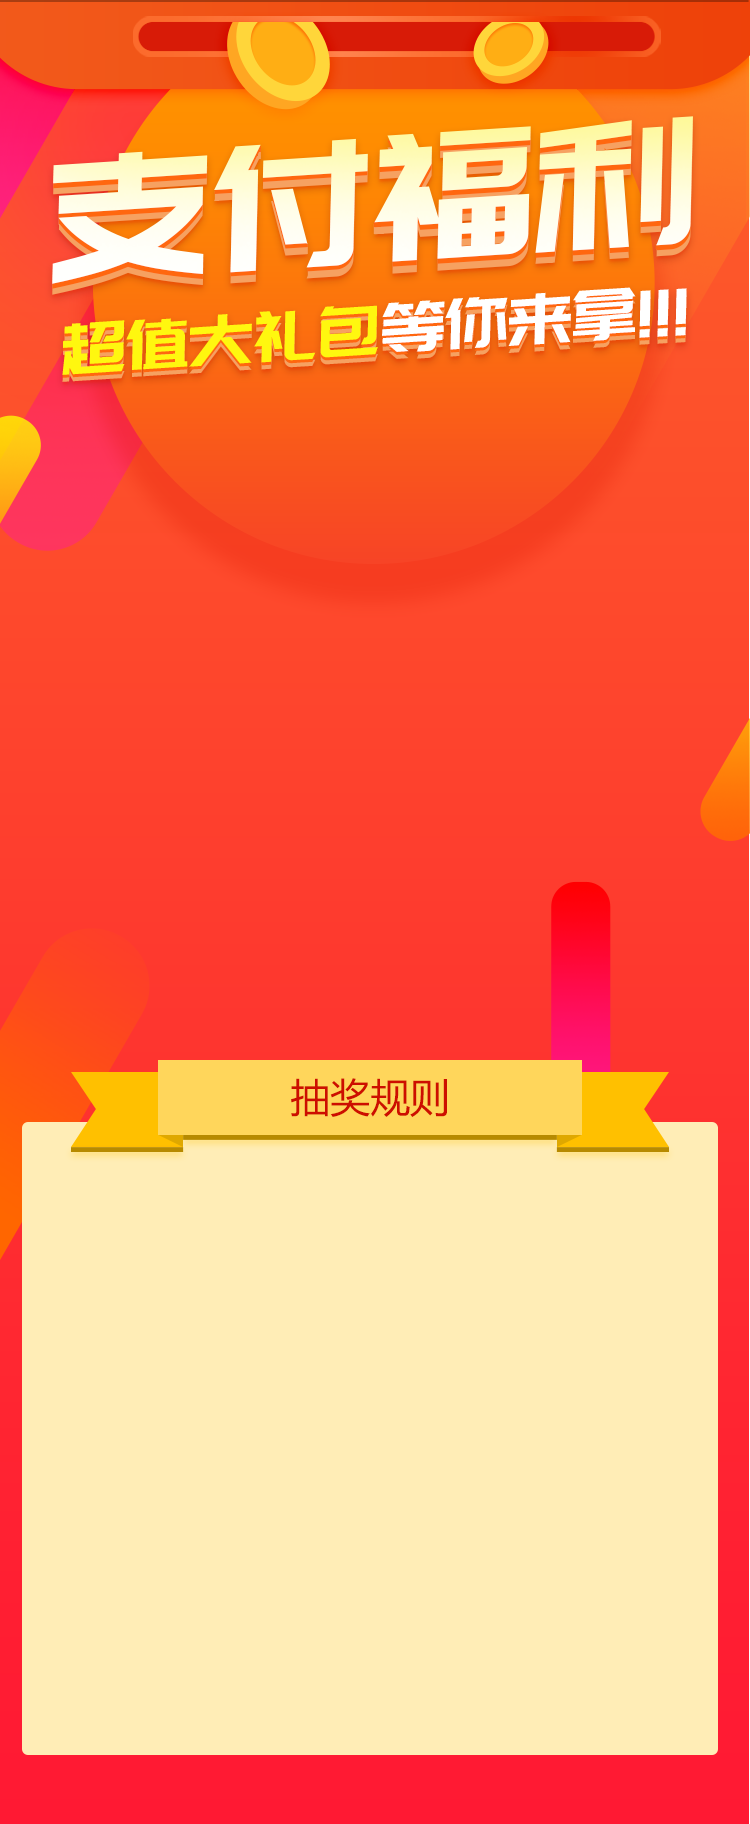
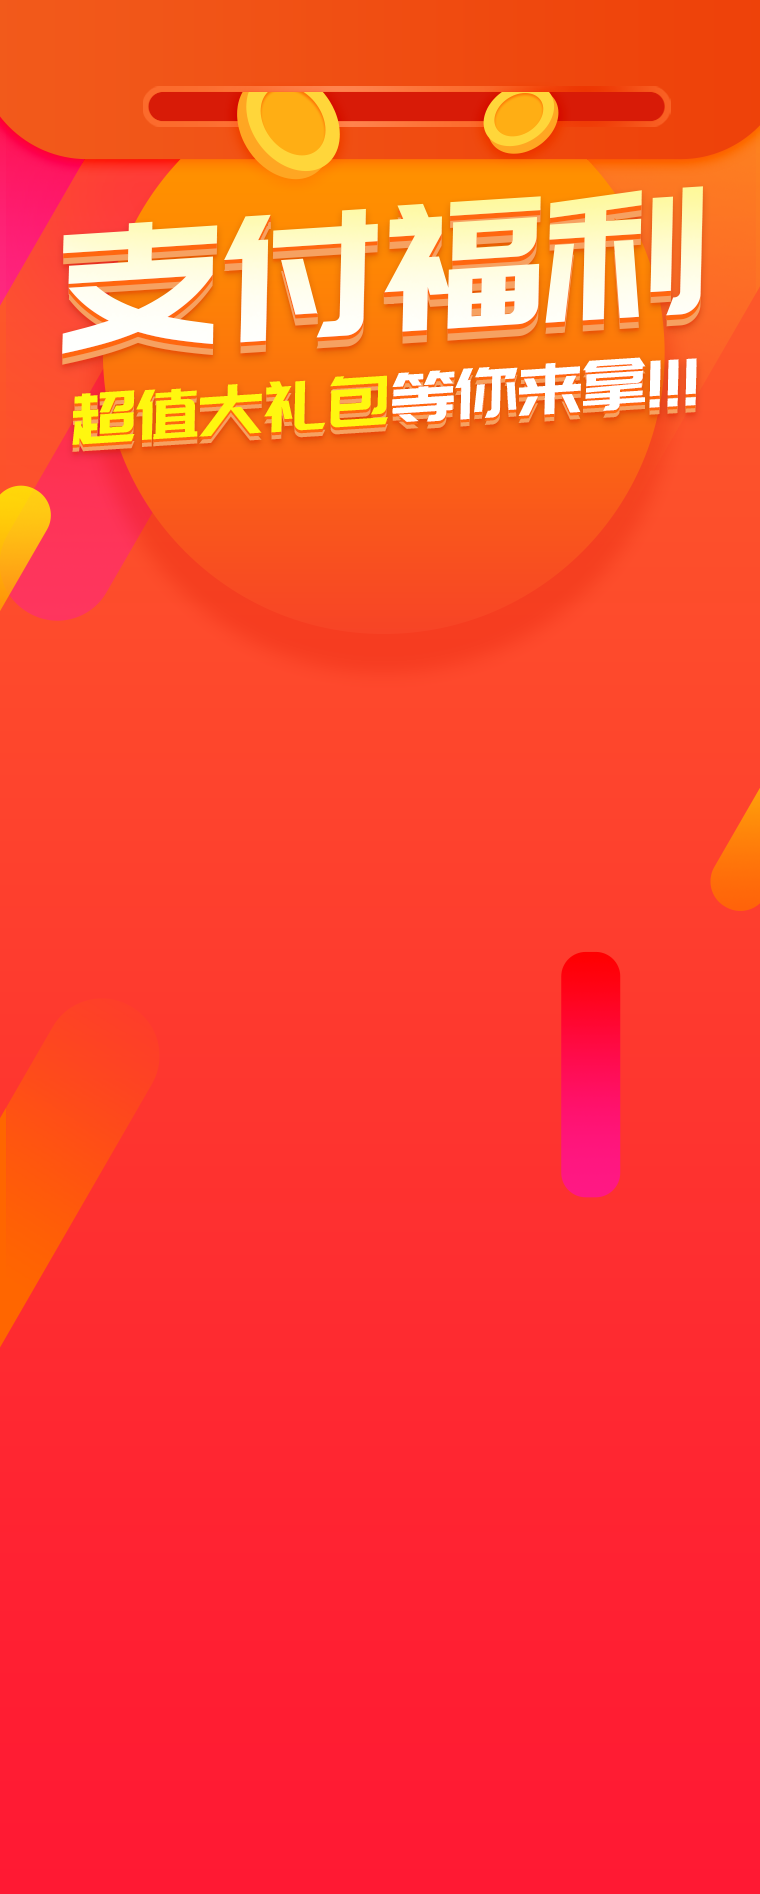
抽奖规则

diff --git a/src/views/activity.vue b/src/views/activity.vue
@@ -46,6 +46,15 @@
                 </div>
                 <div class="item play" @click="play"></div>
             </div>
+
+            <div class="guize">
+                <p>一、每次扫码支付结束后可获得1次抽奖机会。抽奖次数不会累计叠加；</p>
+                <p>二、中奖并领取奖品后，可在[个人中心]-[我的卡券]中查看。中奖如不领取，则视为放弃奖品；</p>
+                <p>三、中奖规则及中奖资格的排除：</p>
+                <p>(一)奖品由系统随机抽取，中奖结果将在活动页面实时公布；</p>
+                <p>(二)凡以不正当手段（包括但不限于机器刷奖、作弊、扰乱系统、实施网络攻击等）参与本次活动的用户，本公司有权终止其参与活动，取消其获奖资格(如奖励已发放，本公司有权收回)；</p>
+                <p>四、点击“抽奖”按钮则视为已阅读抽奖规则。</p>
+            </div>
             
         </main>
 
@@ -533,6 +542,7 @@ main{
     background: url('../assets/activity-bg.png') no-repeat;
     background-size: 100%;
     position: relative;
+    background-position-y: -35px;
 }
 .prizeWheels{
     width: 3.48rem;
@@ -747,6 +757,22 @@ main{
     }
     .thankYou .close{
         bottom: 110px;
+    }
+
+    .guize {
+        width: 3.48rem;
+        height: 3.16rem;
+        position: absolute;
+        left: 50%;
+        top: 5.29rem;
+        transform: translateX(-50%);
+        background: url('../assets/guize.png') no-repeat;
+        background-size: 100%;
+        font-size: .12rem;
+        padding-top: .6rem;
+        padding-left: .15rem;
+        padding-right: .15rem;
+        line-height: .2rem;
     }
 
 </style>

diff --git a/src/components/checkout-discount.vue b/src/components/checkout-discount.vue
@@ -378,7 +378,7 @@ export default {
         float: left;
         margin-top: 10px;
         margin-left: 11px;
-        background: url(../assets/coupon.png) no-repeat;
+        background: url(../assets/coupon2.png) no-repeat;
         background-size: 100%;
         position: relative;
     }
